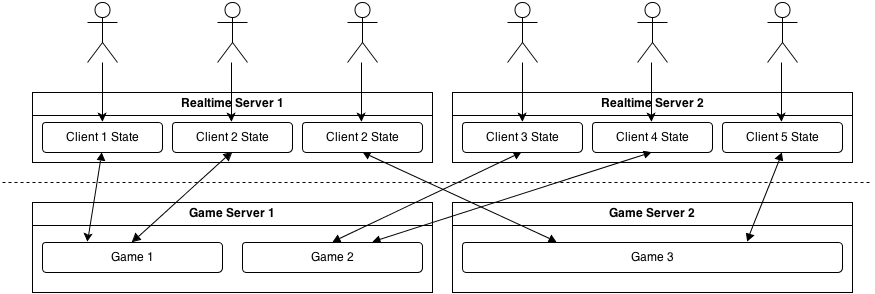
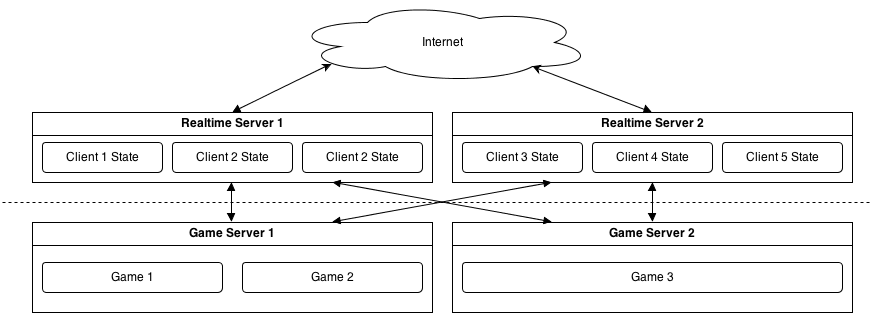
Updates

diff --git a/_posts/2013-06-21-python-realtime.md b/_posts/2013-06-21-python-realtime.md
@@ -14,13 +14,13 @@ We used Google Hangouts and it was supposed to record interview, but it failed. 
 Little Bit of Theory
 ====================
 
-Lets try to solve server "push" problem. Web is all about pulling data - browser makes request to the server, handles request, generates and sends response back. But what if there's need to push data to the browser?
+Lets try to solve server "push" problem. Web is all about pulling data - browser makes request to the server, server  generates and sends response back. But what if there's need to push data to the browser?
 
-Solution is simple: browser makes AJAX request to the server and asks for updates. While it seems like what's usually happening between browser and server, there's a catch. If server does not have anything to send, it will keep connection open until some data is available for the client. After client received response, it will make another request to get more data.
+Solution is simple: browser makes AJAX request to the server and asks for updates. While it seems like what's usually happening between browser and server, there's a catch. If server does not have anything to send, it will keep connection open until some data is available for the client. After client received the response, it will make another request to get more data.
 
 This technique is called long-polling.
 
-Obviously, this is not very efficient approach. Noise to signal ratio is very low in most of the cases - it takes longer to
+Obviously, this is not very efficient approach. Noise to signal ratio is very high in most of the cases - it takes longer to
 process HTTP request (parse and validate headers, for example) than to send actual payload to the client.
 
 But, unfortunately, it is most compatible way to push data to the client right now.
@@ -29,16 +29,16 @@ HTTP/1.1 improved situation a bit. TCP connection can be controlled by [Keep-Ali
 
 HTTP/1.1 also introduced [chunked transfer encoding](http://wikipedia.org/wiki/Chunked_transfer_encoding). It allows breaking response into smaller chunks and send them to the client immediately, without finishing HTTP request.
 
-Unfortunately, there are lots of incompatible proxies that attempt to cache whole response before sending it further, so client won't receive anything until proxy decided that HTTP request was complete. While it is sort of OK for "normal" Web - client will still get response from the server, but it breaks whole idea of using chunked transfer encoding for any kind of real-time purposes.
+Unfortunately, there are incompatible proxies that attempt to cache whole response before sending it further, so client won't receive anything until proxy decided that HTTP request was complete. While it is sort of OK for "normal" Web - client will still get response from the server, but it breaks whole idea of using chunked transfer encoding for any kind of real-time purposes.
 
-On September 2006, Opera Software implemented experimental [Server-Sent Events](http://en.wikipedia.org/wiki/Server-sent_events) feature for its browser. While SSE behavior is very similar to chunked transfer encoding, protocol is different and has better client-side API.
+In September 2006, Opera Software implemented experimental [Server-Sent Events](http://en.wikipedia.org/wiki/Server-sent_events) feature for its browser. While SSE behavior is very similar to chunked transfer encoding, protocol is different and has better client-side API.
 
 SSE was approved by WHATWG on April 23, 2009 and supported by almost all modern desktop browsers (except of Internet Explorer).
 You can see compatibility [chart here](http://caniuse.com/#feat=eventsource).
 
 There are other techniques as well, like [forever-iframe](http://cometdaily.com/2007/11/05/the-forever-frame-technique/) which is only way to do cross-domain push for Internet Explorer versions less than 8, [HTMLFile](http://cometdaily.com/2007/10/25/http-streaming-and-internet-explorer/), etc.
 
-As a whole, all these HTTP-based fallbacks go under [Comet](http://en.wikipedia.org/wiki/Comet_(programming)) name.
+As a whole, all these HTTP-based fallbacks go under [Comet](http://en.wikipedia.org/wiki/Comet_(programming) name.
 
 Lets see pros and cons of these approaches:
 
@@ -57,7 +57,7 @@ Meet WebSockets
 
 While WebSockets are not really new technology, but specification went through few incompatible iterations and finally was accepted in form of [RFC 6455](http://tools.ietf.org/html/rfc6455).
 
-In a nutshell, WebSocket is bi-directional connection between server and client over established TCP connection. Connection is established using ordinary HTTP handshake (with additional WebSocket-related headers) and has additional protocol-level framing, so it is more than just a raw TCP connection opened from the browser.
+In a nutshell, WebSocket is bi-directional connection between server and client over established TCP connection. Connection is established using HTTP-compatible handshake (with additional WebSocket-related headers) and has additional protocol-level framing, so it is more than just a raw TCP connection opened from the browser.
 
 Biggest problem of the WebSocket protocol is support by browsers, firewalls, proxies and anti-viruses.
 
@@ -78,7 +78,7 @@ will work just fine.
 
 However, if browser supports WebSocket transport and WebSocket connection can be established, it is better to use it instead.
 
-To summarize, best approach is: try to open WebSocket connection first and if it fails - try to fall back to one of the HTTP-based transports. It is also possible to "upgrade" connection - start with long-polling and try to establish WebSocket connection. If it succeeds, switch to WebSocket connection. While this approach might reduce initial connection times, but it requires careful server-side implementation to avoid any race conditions when switching between connections.
+To summarize, best approach is: try to open WebSocket connection first and if it fails - try to fall back to one of the HTTP-based transports. It is also possible to "upgrade" connection - start with long-polling and try to establish WebSocket connection in background. If it succeeds, switch to WebSocket connection. While this approach might reduce initial connection time, but it requires careful server-side implementation to avoid any race conditions when switching between connections.
 
 Polyfill Libraries
 ------------------
@@ -95,14 +95,14 @@ different approach - it establishes long-polling connection first and attempts t
 
 In any case - these libraries will try to establish logical bi-directional connection to the server using best available transport.
 
-Unfortunately, I had poor experience with Socket.IO 0.8.x, and was using [sockjs-tornado](https://github.com/mrjoes/sockjs-tornado) for my projects lately, even though I implemented [TornadIO2](https://github.com/mrjoes/tornadio2) - Socket.IO server implementation on top of [Tornado](http://tornadoweb.org/) framework earlier.
+Unfortunately, I had poor experience with Socket.IO 0.8.x, and use [sockjs-tornado](https://github.com/mrjoes/sockjs-tornado) for my projects, even though I wrote [TornadIO2](https://github.com/mrjoes/tornadio2) - Socket.IO server implementation on top of [Tornado](http://tornadoweb.org/) framework earlier.
 
 Server Side
 ===========
 
 Lets go back to the Python.
 
-Unfortunately, WSGI-based servers can not be used to create realtime applications, as WSGI protocol is synchronous. WSGI server can handle only one request at a time.
+Unfortunately, [WSGI](http://en.wikipedia.org/wiki/Web_Server_Gateway_Interface)-based servers can not be used to create realtime applications, as WSGI protocol is synchronous. WSGI server can handle only one request at a time.
 
 Lets check long-polling transport again:
 
@@ -122,7 +122,7 @@ If *get_more_data* blocks, whole server is blocked and can't process requests an
 
 Sure, it is possible to create thread per request, but it is very inefficient.
 
-While there are some workarounds (like approach described by [Armin Ronacher](http://lucumr.pocoo.org/2012/8/5/stateless-and-proud/)), asynchronous execution models fit this task better.
+While there are some workarounds (like approach described by [Armin Ronacher](http://lucumr.pocoo.org/2012/8/5/stateless-and-proud/)), variation of which will be described later, asynchronous execution models fit this task better.
 
 In asynchronous execution model, server still processes requests sequentially and in one thread, but can transfer control to another request handler when there's nothing to do.
 
@@ -130,7 +130,7 @@ In this case, long-polling transport will look like:
 
  1. Client opens HTTP connection to the server to get more data
  2. No data is available, server keeps TCP connection open and does something else in meanwhile
- 3. When there's data to send, server sends it and closes connection
+ 3. When there's data to send, server sends it and closes the connection
 
 Greenlets
 ---------
@@ -142,13 +142,13 @@ There are two ways to write asynchronous code in Python:
 
 In a nutshell, greenlets allow you to write functions that can pause their execution in the middle and then continue their execution later.
 
-Greenlet implementation was back-ported to CPython from [Stackless Python](http://www.stackless.com/). While it might seem that CPython with greenlet module is same as Stackless - it is not true. Stackless Python has two modes of context switching: soft and hard. Soft involves switching python application stack (pointer swap, fast and easy) and hard switching requires stack slicing (slower and error prone). Greenlet is Stackless hard-switching mode. Unfortunately, Stackless uses hard-mode when Python application uses C modules, so networking libraries like Gevent won't be able to benefit from soft switching mode in most of the cases.
+Greenlet implementation was back-ported to CPython from [Stackless Python](http://www.stackless.com/). While it might seem that CPython with greenlet module is same as Stackless - it is not true. Stackless Python has two modes of context switching: soft and hard. Soft switching involves switching python application stack (pointer swap, fast and easy) and hard switching requires stack slicing (slower and error prone). Greenlet is basically port of the Stackless hard-switching mode.
 
 Lets check long-polling example again, but with help of greenlets:
 
  1. Client opens HTTP connection to the server to get more data
  2. Server spawns new greenlet that will be used to handle long-polling logic
- 3. There's no data to send, so greenlet sleeps, pausing currently running function
+ 3. There's no data to send, greenlet starts sleeps, effectively pausing currently executing function
  4. When there's something to send, greenlet wakes up, sends data and closes connection
 
 In pseudo-code, it looks exactly the same as synchronous version:
@@ -161,17 +161,17 @@ def handle_request(request):
     return make_response(data)
 {% endhighlight %}
 
-Why is greenlets are great? Because they allow writing asynchronous code in synchronous fashion. They allow using existing, synchronous libraries in asynchronous fashion as well. Context switching magic is hidden in greenlet implementation.
+Why is greenlets are great? Because they allow writing asynchronous code in synchronous fashion. They allow using existing, synchronous libraries in asynchronously. Context switching magic is hidden by greenlet implementation.
 
 [Gevent](http://www.gevent.org/) is excellent example of what can be achieved with greenlets. This framework patches Python standard library to enable asynchronous IO (Input-Output) and makes all code asynchronous without explicit context switching.
 
 On other hand, greenlet implementation for CPython is quite scary.
 
-Each coroutine has its own stack. CPython uses unmanaged stack for Python applications and when Python program runs, stack looks like lasagna - interpreter data mixed with native extension data, mixed with Python application data and everything is in random order. It is quite hard to preserve stack trace in such case and do painless context switching between coroutines, as it is hard to predict what is on the stack.
+Each coroutine has its own stack. CPython uses unmanaged stack for Python applications and when Python program runs, stack looks like lasagna - interpreter data mixed with native extension data, mixed with Python application data and everything is layered in random order. It is quite hard to preserve stack trace in such case and do painless context switching between coroutines, as it is hard to predict what is on the stack.
 
-Greenlet attempts to overcome the limitation by copying part of the stack to the heap and back. While it works for most of the cases, but any untested 3rd party library with native extension might create bizarre bugs like stack and heap corruption.
+Greenlet attempts to overcome the limitation by copying part of the stack to the heap and back. While it works for most of the cases, but any untested 3rd party library with native extension might create bizarre bugs like stack or heap corruption.
 
-Code that uses greenlets also does not like threads. Imagine that function acquired *RLock* and called another function, which decided that it should sleep waiting for IO. As a result, whole application deadlocked due to implicit context switch to different greenlet. And just by reading code, it is hard to figure out why that happened.
+Code that uses greenlets also does not like threads. It is somewhat easier to create deadlock when code is not expecting that function that was just called paused greenlet and caller didn't have chance to release lock.
 
 Callbacks
 ---------
@@ -192,11 +192,9 @@ def on_data(request):
     send_response(request, make_response(data))
 {% endhighlight %}
 
-As you can see, while workflow is similar, but code structure is somewhat different.
+As you can see, while work-flow is similar, code structure is somewhat different.
 
-Unfortunately, callbacks are not very intuitive and it is nightmare to debug large callback-based applications. Plus, it is hard to make existing "blocking" libraries to work properly with asynchronous application without either rewriting them or using some sort of thread pool.
-
-This also means if you want to talk to database, there should be asynchronous driver for the framework you're using.
+Unfortunately, callbacks are not very intuitive and it is nightmare to debug large callback-based applications. Plus, it is hard to make existing "blocking" libraries to work properly with asynchronous application without either rewriting them or using some sort of thread pool. For example, [Motor](http://motor.readthedocs.org/en/stable/), asynchronous MongoDB driver for Tornado uses hybrid approach - it wraps IO with greenlets, but exposes Tornado-compatible asynchronous API.
 
 Futures
 -------
@@ -244,7 +242,7 @@ def process_request(request):
 
 This code won't work as expected, as calling generator function in python returns generator object without executing body of the function. In this case, *process_request* should be also made asynchronous (wrapped with *coroutine* decorator) and should yield from *get_more_data*. Another way - use framework capabilities to run asynchronous function (like passing callback or adding callback to Future).
 
-Another problem - if there's need to make existing library asynchronous, all its callers should be updated as well. In some cases, their callers should be updated too and so on, up to the top.
+Another problem - if there's need to make existing function asynchronous, all its callers should be updated as well.
 
 Summary
 -------
@@ -257,24 +255,22 @@ It appears that "official" way to write asynchronous applications in Python woul
 
 Sure, nothing will prevent you from using greenlet-based frameworks at all. Having choice is a good thing.
 
-While Gevent entry barrier is very low - "Oh, look, it just works with my old code", amount of knowledge required to debug weird crash is much higher.
-
-I prefer explicit context switching and little bit cautious of greenlets after spending several nights with gdb in production environment figuring out why interpreter crashes all of a sudden.
+I prefer explicit context switching and little bit cautious of greenlets after spending several nights with gdb in production environment figuring out strange interpreter crashes.
 
 Asynchronous Frameworks
------------------------
+=======================
 
 In most of the cases, there's no need to write own asynchronous network layer and better to use existing framework. I won't list all asynchronous frameworks here, only ones I worked with, so no offense.
 
-[Gevent](http://www.gevent.org/) is nice, makes writing asynchronous easy, but I had problems with greenlets, so as I wrote before - somewhat cautious.
+[Gevent](http://www.gevent.org/) is nice, makes writing asynchronous easy, but I had problems with greenlets as mentioned above.
 
 [Twisted](http://twistedmatrix.com/trac/) is oldest asynchronous framework and is actively maintained up to date. My personal feelings about it are quite mixed: complex, non PEP8, hard to learn.
 
 [Tornado](http://tornadoweb.org) is the framework I stopped on. There are few reasons why:
 
- - Pythonic
  - Fast
  - Predictable
+ - Pythonic
  - Actively developed
  - Source code is easy to read and understand
 
@@ -293,7 +289,7 @@ Tornado is more than just a wrapper on top of epoll - it contains own templating
 
 If you're not familiar with tornado, take a look at relatively short [framework overview](http://www.tornadoweb.org/en/stable/overview.html).
 
-Tornado comes with WebSocket protocol implementation out of the box and I implemented [sockjs](https://github.com/mrjoes/sockjs-tornado) and [socket.io](https://github.com/mrjoes/tornadio2) libraries on top of it.
+Tornado comes with WebSocket protocol implementation out of the box and I wrote [sockjs](https://github.com/mrjoes/sockjs-tornado) and [socket.io](https://github.com/mrjoes/tornadio2) libraries on top of it.
 
 As mentioned in beginning of this post, SockJS is WebSocket polyfill library, which exposes WebSocket object on client-side and sockjs-tornado exposes similar API on the server.
 
@@ -333,11 +329,21 @@ Full example, with client side, can be found [here](https://github.com/mrjoes/so
 Managing State
 --------------
 
-In some cases, to process request from the client, some previous client data should be stored on the server. State adds complexity - it uses memory and it makes scaling harder. For example, without shared session state, clients can only "talk" to one server only - you can't distribute requests in round-robin fashion anymore. With shared session state - there's additional IO overhead for each transaction to fetch state from the storage for every client request.
+Server side session is example of state. If server needs some kind of prior data in order to process request, server is stateful.
 
-Unfortunately, it is not possible to implement pure stateless server for any of the HTTP transports. To maintain logical connection, some sort of per-connection session state is required to make sure that no data is lost between client polls.
+State adds complexity - it uses memory and it makes scaling harder. For example, without shared session state, clients can only "talk" to one server in the cluster. And with shared session state - there's additional IO overhead for each transaction to fetch state from the storage for every client request.
 
-Depending on task, it is possible to split stateful networking layer (Comet) from stateless business tier (actual application). In this case, business tier worker does not have to be asynchronous at all - it receives task, processes it and sends response back. And because worker is stateless, it is possible to start lots of workers in parallel to increase overall throughput of the application.
+Unfortunately, it is not possible to implement pure stateless server for Comet server. To maintain logical connection, some sort of per-connection session state is required to make sure that no data is lost in between client polls.
+
+Depending on the task, it is possible to split stateful networking layer (Comet) from stateless business tier (actual application). In this case, business tier worker does not have to be asynchronous at all - it receives task, processes it and sends response back. And because worker is stateless, it is possible to start lots of workers in parallel to increase overall throughput of the application.
+
+Here's how it can look, architecturally:
+
+<a href="/shared/posts/python-realtime/frontend-worker.png">
+  <img src="/shared/posts/python-realtime/frontend-worker.png" alt="Diagram"></img>
+</a>
+
+In this example, Redis was used as a synchronization transport and well, it is single point of failure, which is not really great from reliability perspective. Also, Redis queues were used to push requests to workers and receive answers from them.
 
 Because networking layer is stateful, load balancer in front of application should use sticky sessions (client should go to same server every time) for realtime connections.
 
@@ -354,7 +360,7 @@ There are two ways to integrate realtime portion:
 
 With Gevent, it is possible to make WSGI application coexist in same process with realtime portion. With Tornado and other callback-based frameworks, while it is possible for realtime portion to run in same process, in separate thread, it is not advised for performance reasons (due to [GIL](http://en.wikipedia.org/wiki/Global_Interpreter_Lock)).
 
-And again, I prefer out-of-process approach, where separate set of processes/servers are responsible for realtime portion. They might be part of one project/repository, but they run side by side, separately.
+And again, I prefer out-of-process approach, where separate set of processes/servers are responsible for realtime portion. They might be part of one project/repository, but they always run separately, side by side.
 
 Lets assume you have social network and want to push status updates in realtime.
 
@@ -362,10 +368,12 @@ Most straightforward way to accomplish this is to create separate server which w
 
 Notifications can happen either through custom REST API exposed by realtime server (works OK for small deployments), through [Redis](http://redis.io/) PUBLISH/SUBSCRIBE functionality (there's high chance your project already uses Redis for something), with help of [ZeroMQ](http://www.zeromq.org/), using AMQP message bus (like [RabbitMQ](http://www.rabbitmq.com/)) and so on.
 
+We'll investigate simple push broker architecture later in this post.
+
 Structuring your code
 ---------------------
 
-I'll use Flask as an example, but same can be applied to any other framework (Django, Pyramid, etc).
+I'll use [Flask](http://flask.pocoo.org/) as an example, but same can be applied to any other framework (Django, Pyramid, etc).
 
 I prefer having one repository for both Flask application and realtime portion on top of Tornado. In this case, some of the code can be reused between both projects.
 
@@ -444,7 +452,7 @@ Authentication message will be first message sent from the client to the server.
 {"msg": "auth", "token": "[encrypted-token-in-base64]"}
 {% endhighlight %}
 
-Payload is encrypted token, generated by Flask application. One way to generate token: get current user ID, add some salt with time stamp and encrypt it with some symmetric algorithm (like 3DES or AES) with a shared secret between. Tornado can decrypt the token, get user ID out of it and make a query from database to get necessary information about user.
+Payload is encrypted token, generated by Flask application. One way to generate token: get current user ID, add some salt with time stamp and encrypt it with some symmetric algorithm (like 3DES or AES) with a shared secret between. Tornado can decrypt the token, get user ID out of it and make a query from database to get any necessary information about user.
 
 Room list can be represented by something like:
 {% highlight json %}
@@ -493,7 +501,7 @@ By implementing different message handlers and appropriate logic on client-side,
 
 Games are stateful - server has to keep track of what's happening in the game. This also means that it is somewhat harder to scale them.
 
-In example above, one server will handle all games for all connected players. But what if we have to start two servers? As they don't know about each one state, players connected to first server won't be able to play with players on the second server.
+In example above, one server will handle all games for all connected players. But what if we want to have two servers and distribute players between them? As they don't know about each one state, players connected to the first server won't be able to play with players on the second server.
 
 Depending on game rule complexity, it is possible to use fully connected topology - every server is connected to every other server:
 
@@ -501,21 +509,21 @@ Depending on game rule complexity, it is possible to use fully connected topolog
   <img src="/shared/posts/python-realtime/game-interconnect.png" alt="Diagram"></img>
 </a>
 
-In this case, game state should have minimum required information to identify client, manage his game-related state and send game-related messages to appropriate server(s), so they can forward them to the browser.
+In this case, game state should have minimum required information to identify player, manage his game-related state and send game-related messages to appropriate server(s), so they can forward them to the client.
 
 While this approach works, but as asynchronous application is single-threaded, it is better to split game logic and related state into separate server application and treat realtime portion as a smart adapter between game server and the client.
 
-So, it can work like this (yes, I know, it looks a bit ugly):
+So, it can work like this:
 
 <a href="/shared/posts/python-realtime/realtime-game-servers.png">
   <img src="/shared/posts/python-realtime/realtime-game-servers.png" alt="Diagram"></img>
 </a>
 
-Client connects to one of realtime servers, authenticates himself, gets list of running games (through some shared state between game and realtime servers). When client wants to play in particular game, it sends request to realtime server, which then talks to game server. While this looks very similar to full-interconnected solution, realtime servers are not interconnected and independent of each other and game servers don't need to connect, as they don't care about each others states. Scaling is simple as well - add more realtime server or game servers, as their state is isolated and becomes manageable.
+Client connects to one of realtime servers, authenticates himself, gets list of running games (through some shared state between game and realtime servers). When client wants to play in particular game, it sends request to realtime server, which then talks to the game server which hosts the game. While this looks very similar to full-interconnected solution, realtime and game servers are not interconnected. Scaling is simple as well - add more realtime server or game servers, as their state is isolated and becomes manageable.
 
-Also, for this task, I'll use ZeroMQ (or AMQP bus) instead of Redis, because Redis becomes single point of failure.
+Also, for this task, I'd use ZeroMQ (or AMQP bus) instead of Redis, because Redis becomes single point of failure.
 
-Game servers are not exposed to the Internet and they can be only accessed by realtime servers.
+Game servers are not exposed to the Internet and they can be only accessed by the realtime servers.
 
 Deployment
 ----------
@@ -525,24 +533,24 @@ It is good idea to serve both Flask and Tornado portions behind the load balance
 There are three deployment options:
 
  1. Serve both Web and realtime portions from the same host and port and use URL-based routing to distinguish between them
-   - Advantages
-     1. Everything looks consistent
-     2. No need to worry about cross-domain scripting policies
-     3. Usually works in environments with restrictive firewall
-   - Disadvantages
-     1. Not compatible with some corporate transparent HTTP proxies
+     - Advantages
+         1. Everything looks consistent
+         2. No need to worry about cross-domain scripting policies
+         3. Usually works in environments with restrictive firewall
+     - Disadvantages
+         1. Not compatible with some corporate transparent HTTP proxies
  2. Serve Web server on port 80 and realtime portion on different port
-   - Advantages
-     1. More compatible with transparent proxies
-   - Disadvantages
-     1. Cross-domain scripting issues ([CORS](http://en.wikipedia.org/wiki/Cross-origin_resource_sharing) is not supported by every browser)
-     2. Higher chance to get blocked by firewalls
+     - Advantages
+         1. More compatible with transparent proxies
+     - Disadvantages
+         1. Cross-domain scripting issues ([CORS](http://en.wikipedia.org/wiki/Cross-origin_resource_sharing) is not supported by every browser)
+         2. Higher chance to get blocked by firewalls
  3. Serve Web server on main domain (site.com) and realtime portion on subdomain (subdomain.site.com)
-   - Advantages
-     1. Possible to host realtime portion separately from main site (no need to use same load balancer)
-   - Disadvantages
-     1. Cross-domain scripting issues
-     2. Misbehaving transparent proxies
+     - Advantages
+         1. Possible to host realtime portion separately from main site (no need to use same load balancer)
+     - Disadvantages
+         1. Cross-domain scripting issues
+         2. Misbehaving transparent proxies
 
 Real-life experience
 --------------------
@@ -553,13 +561,13 @@ But, unfortunately, I didn't use it myself for large projects.
 
 However, I have quite interesting experience with [sockjs-node](https://github.com/sockjs/sockjs-node) - SockJS server implementation for [nodejs](http://nodejs.org/). I implemented realtime portion for existing website for a relatively large radio station. At average, there are around 3,500 connected clients at the same time.
 
-Most connections are short-lived and server is more than just a simple broker: it manages hierarchical subscription channels (for example radiostation->event->tweet or radiostation->artist->news->tweet) and channel backlog. Client can subscribe to the channel and should receive all updates pushed to any of the child channels as well. Client can also request backlog - last N messages sorted by date for channel and its children. So there was a bit of logic on the server.
+Most connections are short-lived and server is more than just a simple broker: it manages hierarchical subscription channels (for example radiostation->event->tweet or radiostation->artist->news->tweet) and a channel backlog. Client can subscribe to the channel and should receive all updates pushed to any of the child channels as well. Client can also request backlog - last N messages sorted by date for channel and its children. So there was a bit of logic on the server.
 
 Overall, nodejs performance is great - 3 server processes on one physical server are able to keep up with all these clients without any sweat and there's a lot room for growth.
 
 But there were too many problems with nodejs and/or its libraries to my taste.
 
-After deploying to production, server started leaking memory for no apparent reason. All tools showed that heap size is constant, but RSS of the server process kept growing until process was killed by the OS. As a quick solution, nodejs server was restarted every night. Issue was similar to [this](https://github.com/einaros/ws/issues/43), but had nothing to do with SSL, as it was not used.
+After deploying to production, server started leaking memory for no apparent reason. All tools showed that heap size is constant, but RSS of the server process kept growing until process getting killed by the OS. As a quick solution, nodejs server had to be restarted every night. Issue was similar to [this](https://github.com/einaros/ws/issues/43), but had nothing to do with SSL, as it was not used.
 
 Upgrading to newer nodejs version helped, until process started crashing with no apparent reason and without generating coredump.
 
@@ -571,19 +579,17 @@ Also, callback-based programming style makes code not as clean and readable as I
 
 To sum it up - even though nodejs does its job, I had strong feeling that it is not as mature as Python. And I'd rather use Python for such task in the future, so I can be sure that if something goes wrong, it is happening because I failed and issue can be traced relatively easy.
 
-Performance-wise, with WebSocket transport, CPython is on par with nodejs and PyPy is much faster than both. For long-polling, Tornado on PyPy is approximately 1.5-2 times slower than nodejs when used with proper asynchronous libraries. So, given current WebSocket adoption state, I'd say they're on par.
+Performance-wise, with WebSocket transport, CPython is [on par](http://mrjoes.github.io/2011/12/15/sockjs-bench.html) with nodejs and PyPy is much faster than both. For long-polling, Tornado on PyPy is approximately 1.5-2 times slower than nodejs when used with proper asynchronous libraries. So, given current WebSocket adoption state, I'd say they're comparable.
 
-Anyway, I don't see reason to switch to drop Python in favor of nodejs to implement realtime portion.
+Anyway, I don't see reason to drop Python in favor of nodejs for the realtime portion.
 
 Final notes
 -----------
 
-While one might argue that Python is not best language to write asynchronous code with. Sure, Erlang has built-in tools to write efficient and scalable applications (and there's [sockjs-erlang](https://github.com/sockjs/sockjs-erlang) too), but it is so much harder to find Erlang developers. Clojure/Scala are another great candidates, but Java is completely different world with own libraries, methodologies and conventions. And it is still harder to find decent Clojure developer than to find good Python guy.
+While one might argue that Python is not best language to write scalable servers with. Sure, [Erlang](http://www.erlang.org/) has built-in tools to write efficient and scalable applications (and there's [sockjs-erlang](https://github.com/sockjs/sockjs-erlang) too), but it is so much harder to find Erlang developers. [Clojure](http://clojure.org/) and [Scala](http://www.scala-lang.org/) are other great candidates, but Java is completely different world with own libraries, methodologies and conventions. And it is still harder to find decent Clojure developer than to find good Python guy. [Go](http://golang.org/) is great, but quite young language without significant adoption.
 
-In most of the cases, software development is trade-off between development costs and performance. And I think that Python is in good position, especially with [PyPy](http://www.pypy.org/).
-
-I hope this post will help you to get started with realtime Web using Python language.
+If you already have Python experience, you can achieve decent results by continuing using Python. In most of the cases, software development is trade-off between development costs and performance. I think that Python is in good position, especially with help of [PyPy](http://www.pypy.org/).
 
 Anyway, if you have any comments, questions or updates - feel free to contact me.
 
-P.S. Diagrams were done with help of [draw.io](http://draw.io/) - I think I should mention this excellent and free service.
+P.S. Diagrams were done in [draw.io](http://draw.io/) - I had to mention this excellent and free service.

diff --git a/about.md b/about.md
@@ -5,12 +5,12 @@ layout: default
 Who am I?
 ---------
 
-My name is Serge Koval. Nickname - Joes. Live in Kiev, Ukraine.
+My name is Serge Koval. Live in Kiev, Ukraine.
 
 Profession?
 -----------
 
-Programmer. A bit of python, C# and web-related technologies.
+Programmer. Passionate about Python. Have experience with .NET platform (C# mostly), C, C++, a bit of gamedev and x86 assembly language.
 
 How to reach me
 ---------------

diff --git a/index.md b/index.md
@@ -5,7 +5,7 @@ layout: default
 {% for p in site.posts limit 5 %}
 	<li>
 		<div class="date">
-			{{ p.date | date:"%b %d"}}
+			{{ p.date | date:"%b %d, %Y"}}
 		</div>
 		<div>
 			<a href="{{ p.url }}"><h3>{{ p.title }}</h3></a>
